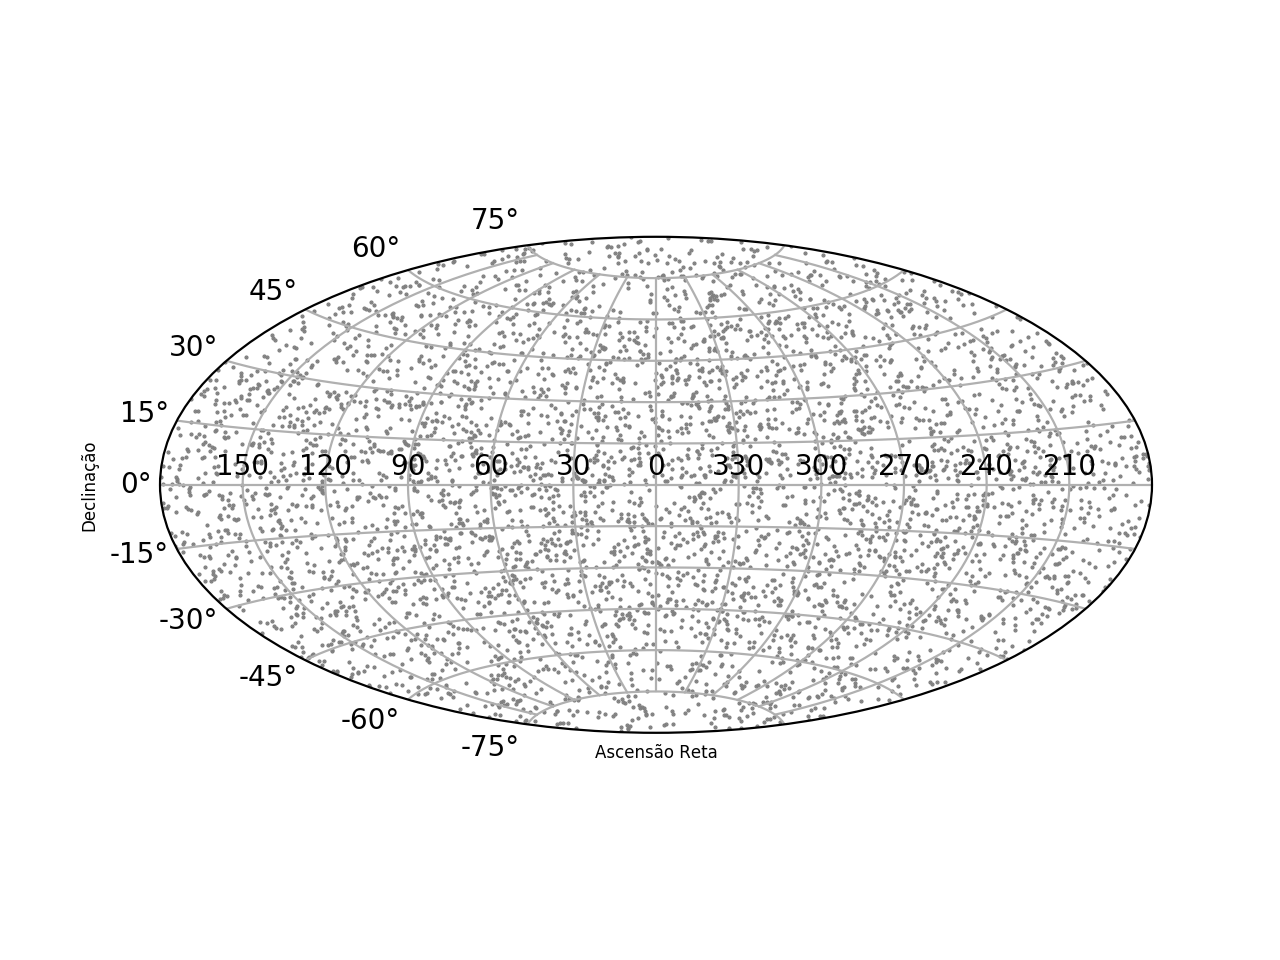
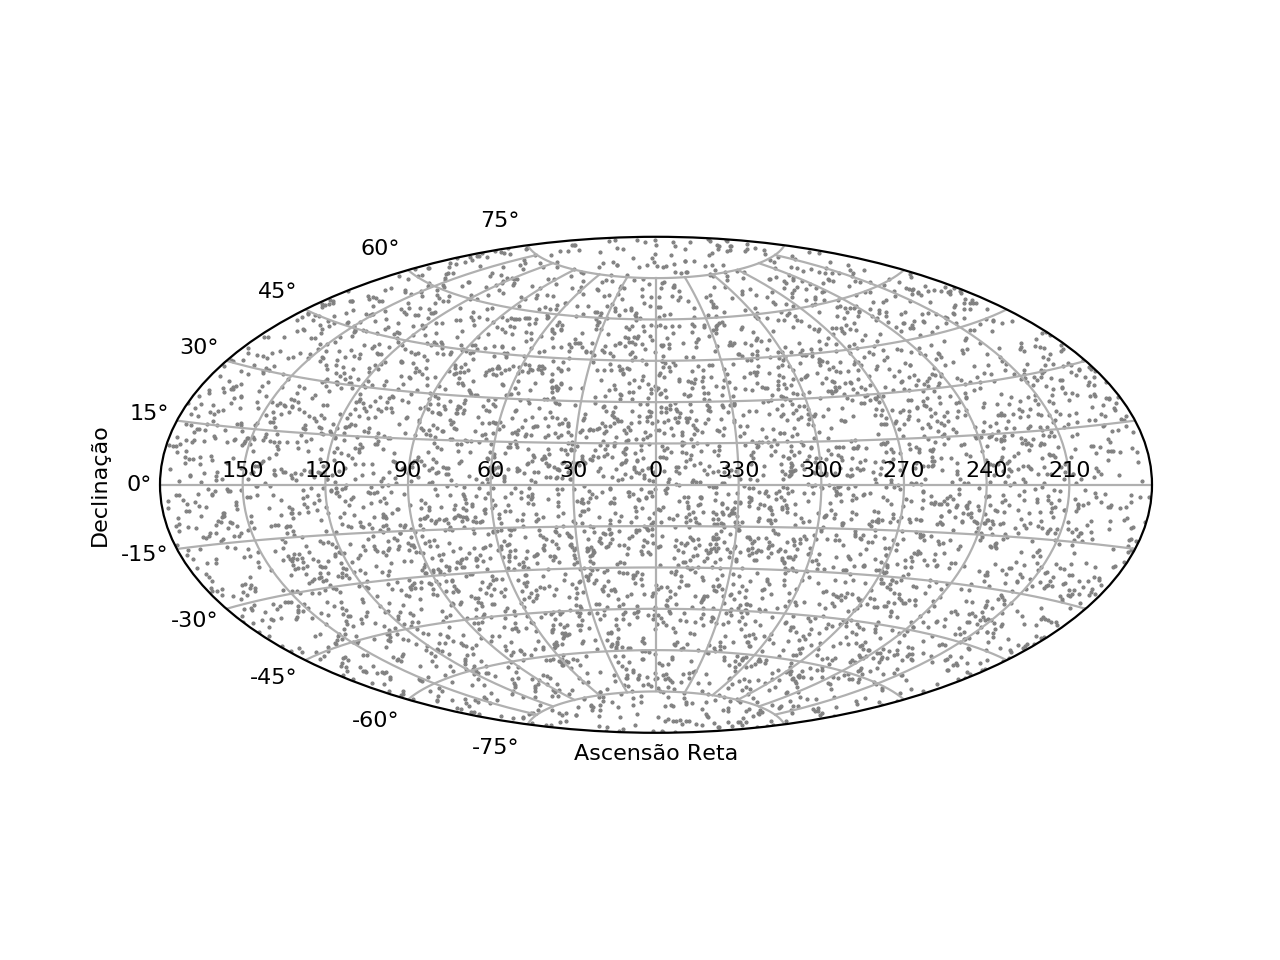
fixes

Changed region(s): [[0.0625, 0.2188, 0.9062, 0.8125], [0.1875, 0.6875, 0.2188, 0.7188], [0.1875, 0.2812, 0.2188, 0.3125]]

diff --git a/exposicao/ait.py b/exposicao/ait.py
@@ -19,12 +19,15 @@ def plot_ait(alpha, delta, origin = 0):
 
   fig = plt.figure(dpi=200)
   ax = fig.add_subplot(111, projection='aitoff')
-  ax.scatter(x, y, s=1, marker='.', color='grey') # convert degrees to radians
-  ax.set_xticklabels(tick_labels) # we add the scale on the x axis
+  ax.scatter(x, y, s=1, marker='.', color='grey')
+
+  # configure ticks and labels
+  ax.set_xticklabels(tick_labels, fontsize=8)
+  for tick in ax.yaxis.get_major_ticks(): tick.label.set_fontsize(8)
   ax.set_xlabel('Ascensão Reta')
-  ax.xaxis.label.set_fontsize(6)
+  ax.xaxis.label.set_fontsize(8)
   ax.set_ylabel('Declinação')
-  ax.yaxis.label.set_fontsize(6)
+  ax.yaxis.label.set_fontsize(8)
   ax.grid(True)
 
   return fig
